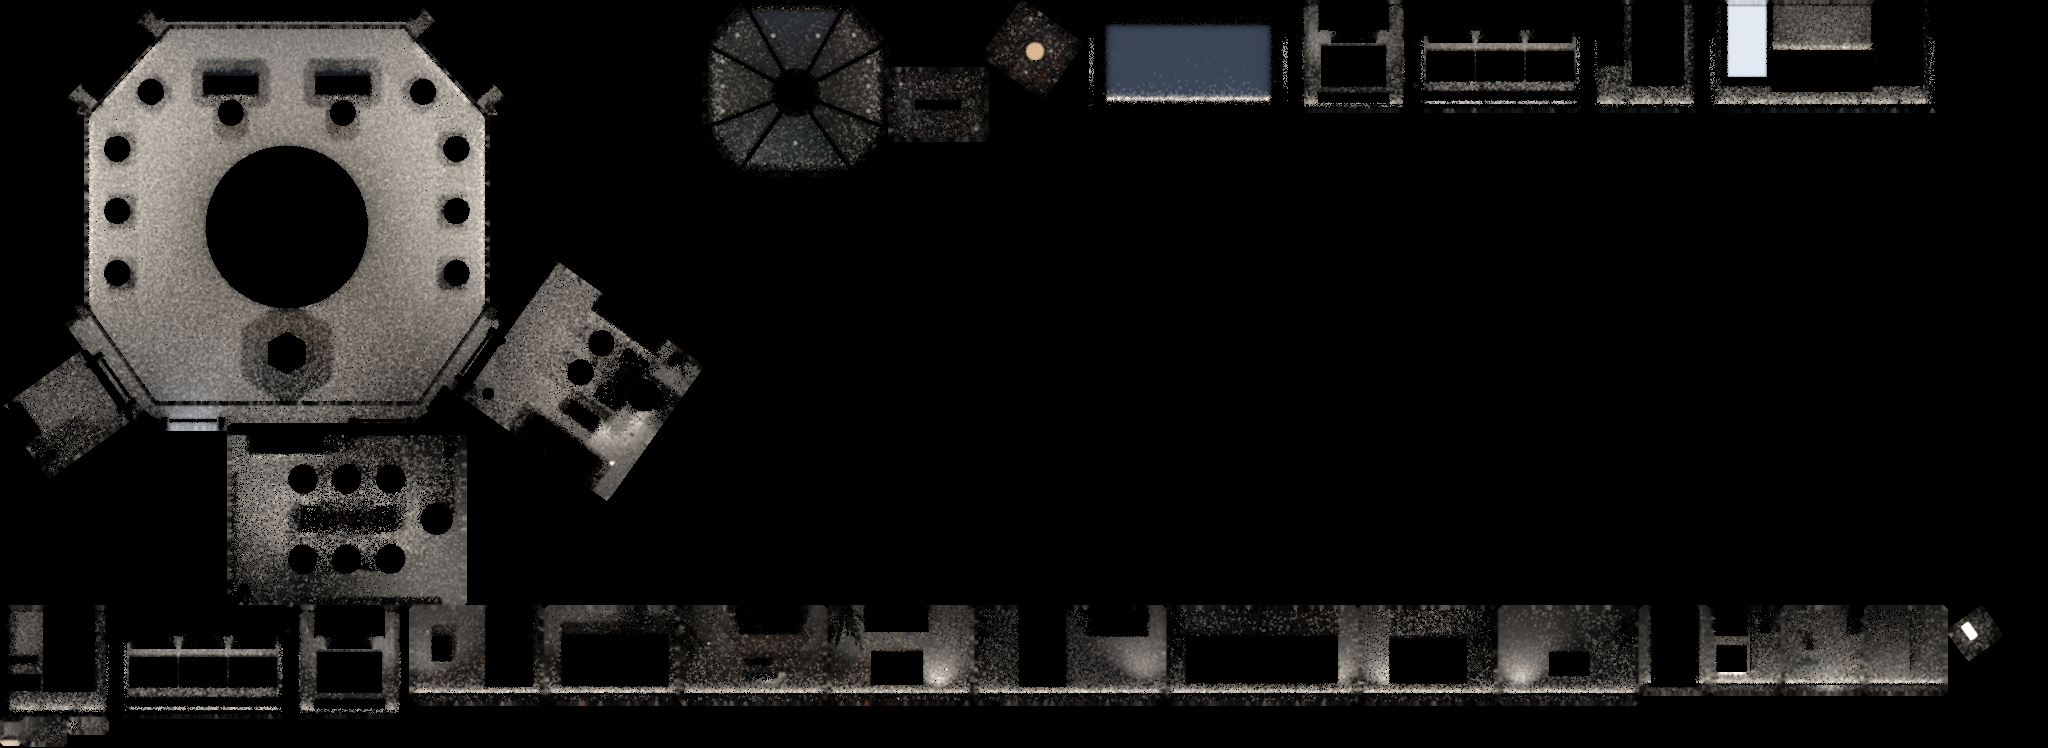
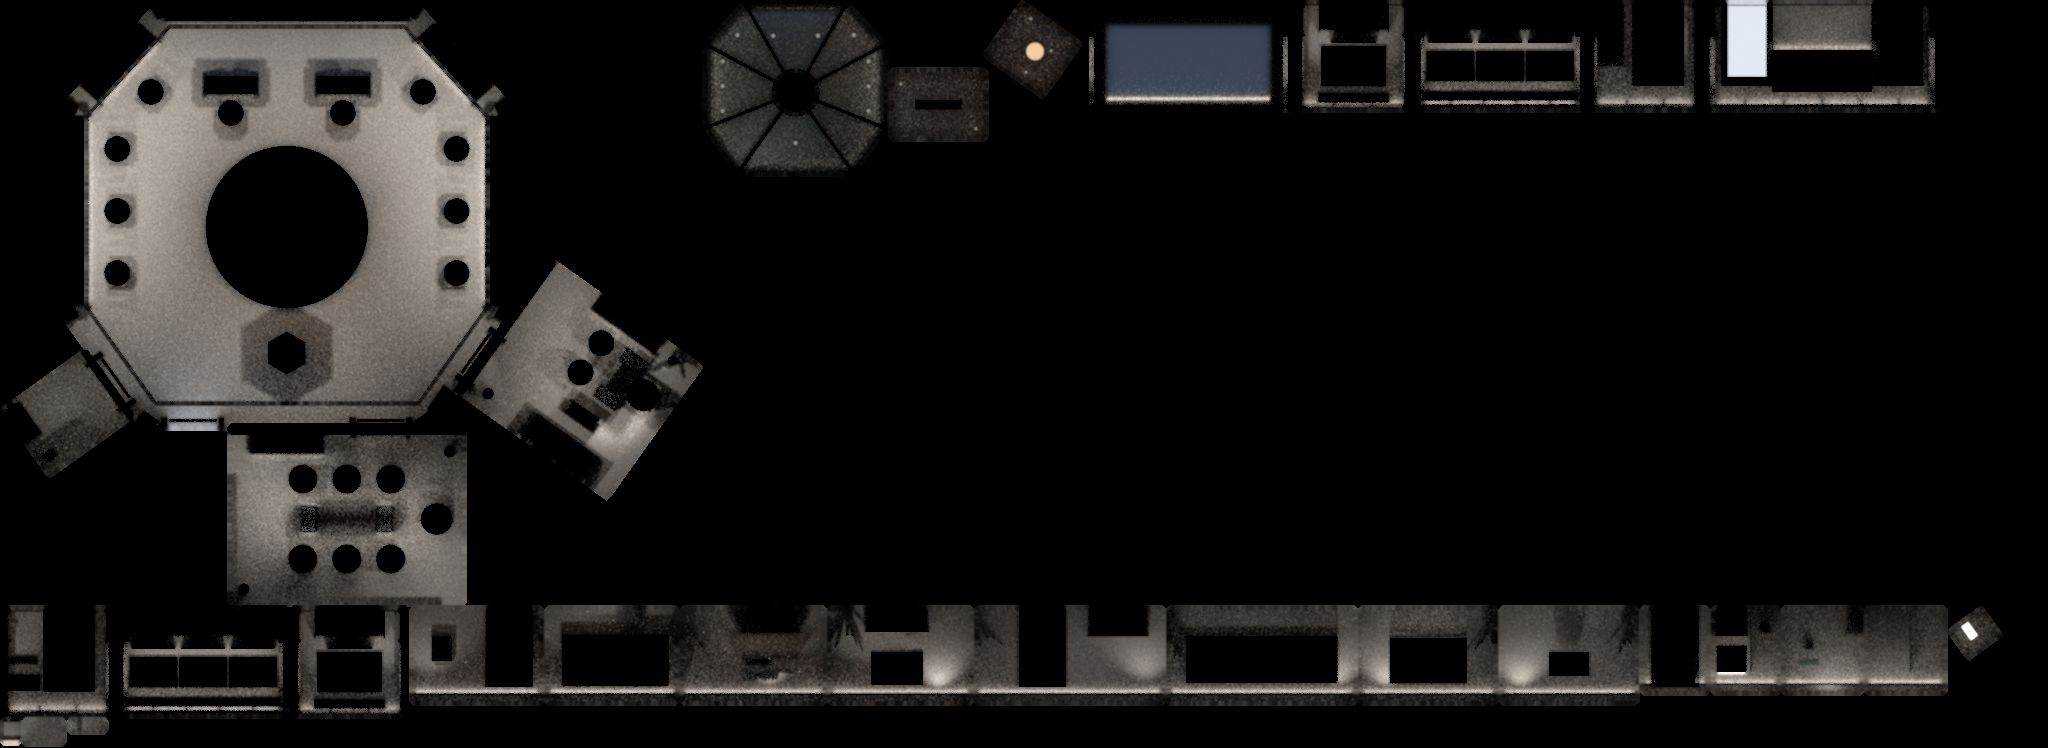
Stage 1: brighter red alert, smoother light map, test bake at 48 samples
Claude-Session: https://claude.ai/code/session_01AcEqm7tNtUN7sHw4Npz5zq

diff --git a/js/render.js b/js/render.js
@@ -229,7 +229,7 @@ function frame() {
     stripMats.forEach((m) => m.color.setHex(ALERTS.red.strip).multiplyScalar(1.9 * k));
     slotMats.forEach((m) => m.color.setHex(ALERTS.red.slot).multiplyScalar(1.35 * (0.35 + 0.65 * k)));
     MAT.wall.emissiveIntensity = 0.3 + 0.7 * k;
-    bakeLevels(LIGHT_LEVELS[state.light] * 0.6, 'red', ALERTS.red.strip, k);
+    bakeLevels(LIGHT_LEVELS[state.light] * 0.8, 'red', ALERTS.red.strip, k);
   } else MAT.wall.emissiveIntensity = 0.7;
 
   if (AC && soundOn && elapsed > nextChirp) { nextChirp = elapsed + 3 + Math.random() * 6; const b = 1200 + Math.random() * 1200; beep(Math.random() < 0.5 ? [b, b * 1.25] : [b], 0.045, 0.012); }

diff --git a/js/ui.js b/js/ui.js
@@ -210,7 +210,7 @@ function setAlert(a) {
 function applyLights() {
   const k = LIGHT_LEVELS[state.light] * (state.alert === 'red' ? 0.6 : 1), A = ALERTS[state.alert];
   fallbackApply(k, A);
-  bakeLevels(k, state.alert, A.strip, 1);
+  bakeLevels(LIGHT_LEVELS[state.light] * (state.alert === 'red' ? 0.8 : 1), state.alert, A.strip, 1);
   const dk = Math.min(1, 0.35 + 0.65 * k);
   lightDiscMat.color.setHex(state.alert === 'red' ? 0xff9a88 : 0xffffff).multiplyScalar(dk * 0.6);
   downlightMat.color.setHex(state.alert === 'red' ? 0xff8070 : 0xfff0dc).multiplyScalar(dk);

diff --git a/tools/bake_encode.py b/tools/bake_encode.py
@@ -25,7 +25,7 @@ meta = {'atlas': scn['atlas'], 'exposure': EXPOSURE, 'strip': 1.0, 'env': 1.0, '
 # light map
 lw, ls = np.load(os.path.join(work, 'lm_w.npy')), np.load(os.path.join(work, 'lm_s.npy')).mean(2, keepdims=True)
 mask = lw.sum(2) > 0
-lw = blur_masked(lw, mask); ls = blur_masked(ls, mask)
+lw = blur_masked(lw, mask, 2); ls = blur_masked(ls, mask, 2)
 mw = float(np.percentile(lw[mask], 99.8)) * 1.1; ms = float(np.percentile(ls[mask], 99.8)) * 1.1
 Image.fromarray(enc(lw, mw)).save(os.path.join(out, 'lm_w.png'), optimize=True)
 Image.fromarray(enc(ls[..., 0], ms)).save(os.path.join(out, 'lm_s.png'), optimize=True)
